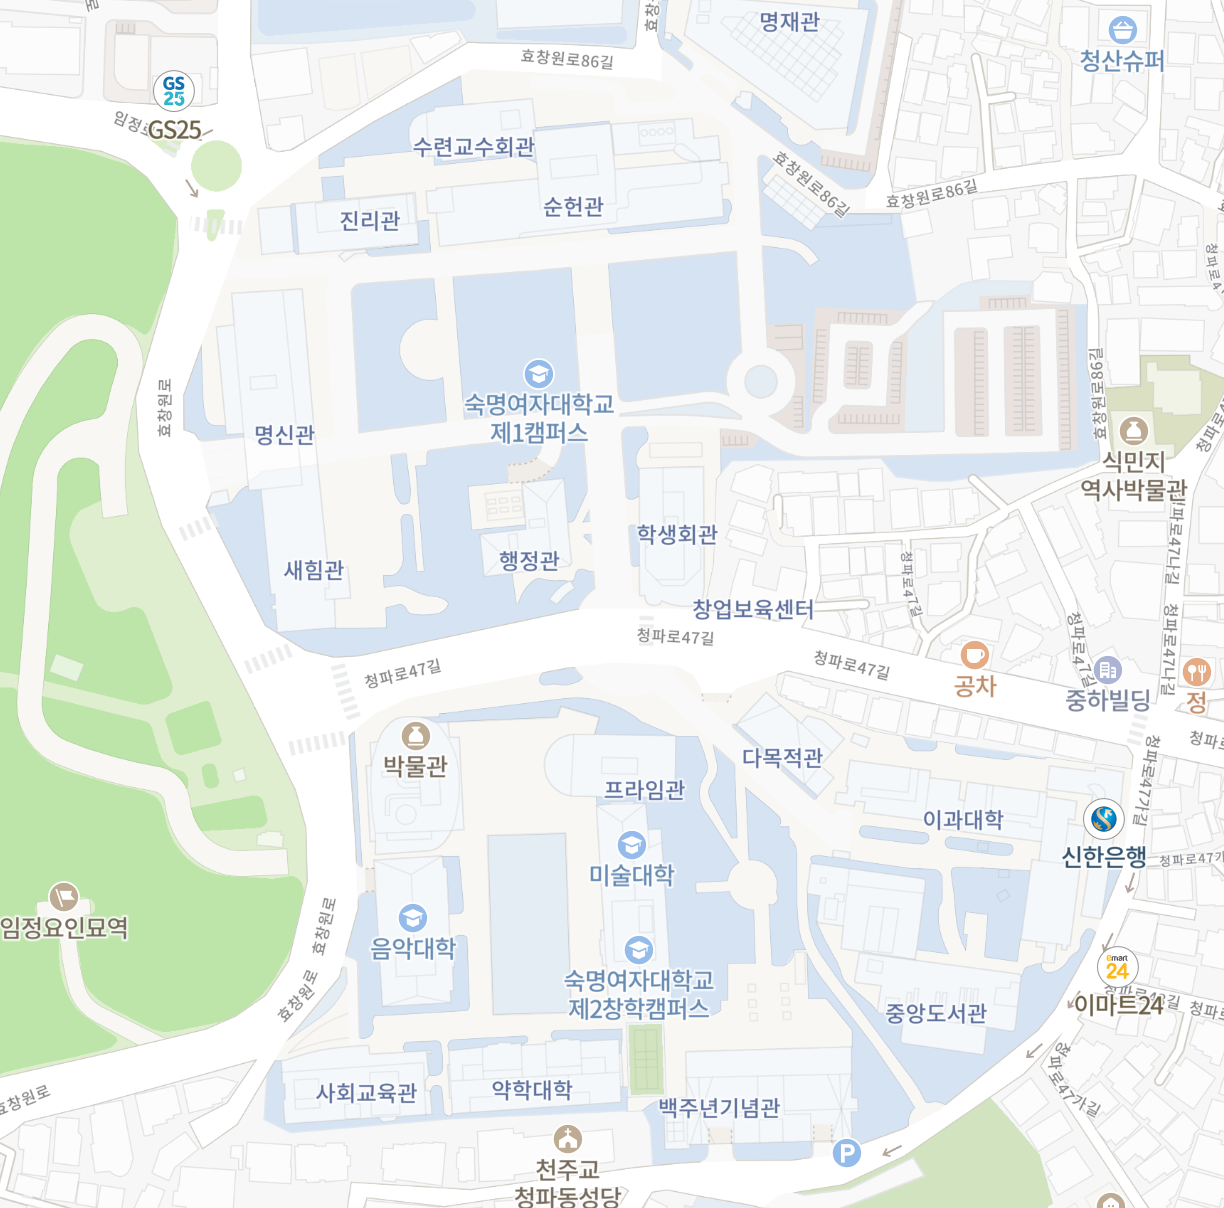
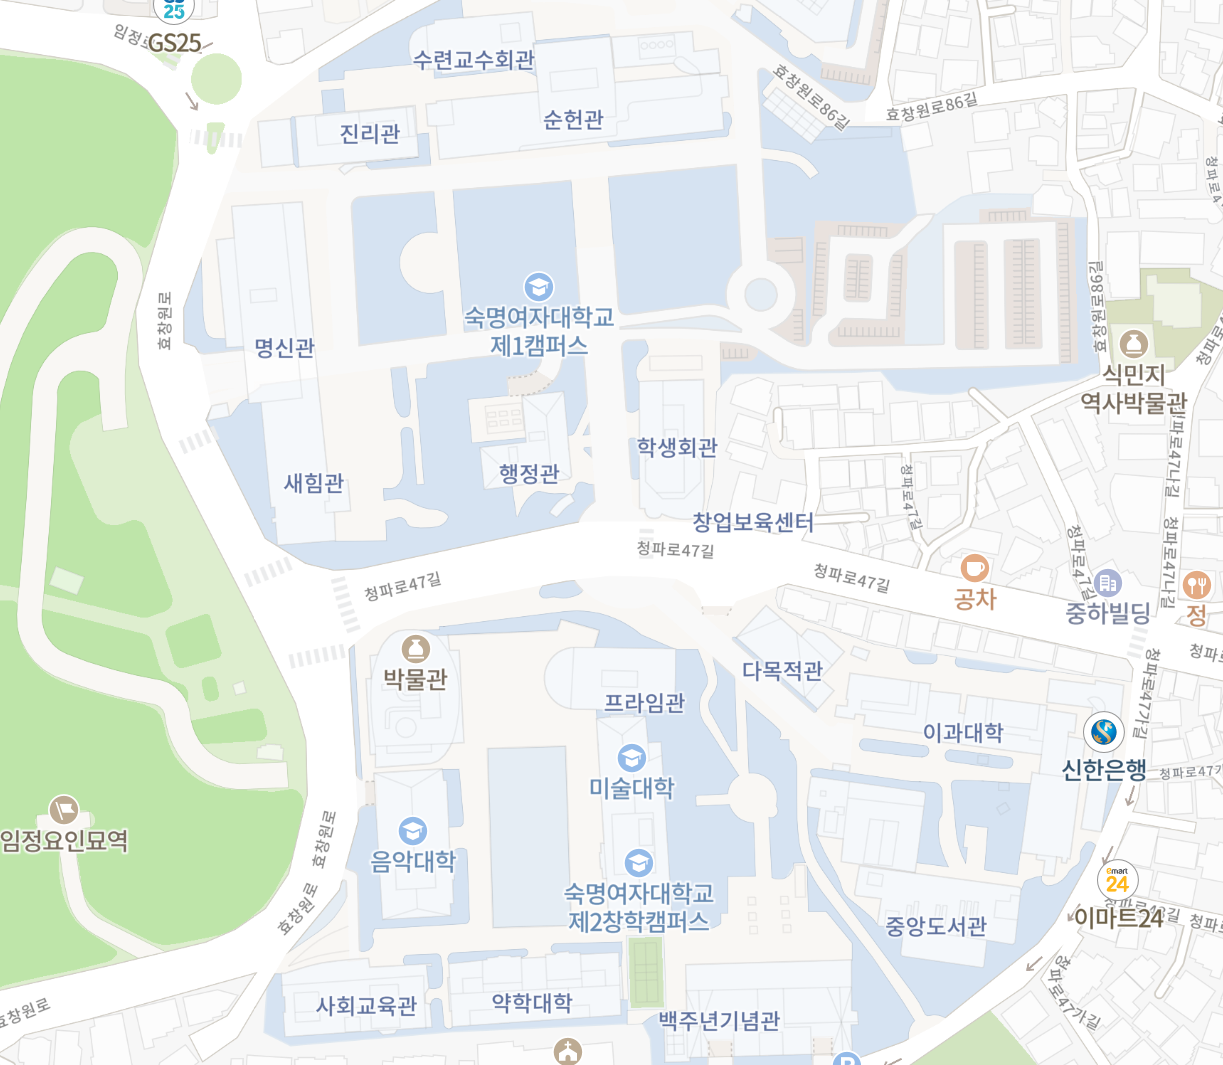
fix: 댓글 폼

diff --git a/smsh22/src/page/Detail.js b/smsh22/src/page/Detail.js
@@ -95,7 +95,7 @@ const Detail = ({ userObj }) => {
 
   return (
     <Container>
-      <Img src="./image/logo.png"
+      <Img src="./image/logo2.png"
         onClick={() => {
           nav.push("/");
         }}
@@ -132,24 +132,28 @@ const Detail = ({ userObj }) => {
       ) : (
         <LeftDiv>
           <Left>
-            대형 : {ridae.l}개 / 업데이트 날짜 : {ridae.stringDate}
-            <br />
-            <br />
-            중형 : {ridae.m}개 / 업데이트 날짜 : {ridae.stringDate}
+            대형 : {ridae.l}개 / 중형 : {ridae.m}개
+            <br/>
+            <br/>
+            업데이트 날짜 : {ridae.stringDate}
           </Left>
           <Btn onClick={toggleEditing}>업데이트</Btn>
         </LeftDiv>
       )}
-      <WriteComment userObj={userObj} name={id} getDate={getDate} />
       <CommentCon>
-        {comments.map((comment) => (
-          <div key={comment.id}>
-            <Div>
-              <Comment commentObj={comment} />
-            </Div>
-            <Hr />
-          </div>
-        ))}
+        <WriteComment userObj={userObj} name={id} getDate={getDate} />
+        {comments.length>0?(
+          comments.map((comment) => (
+            <div key={comment.id}>
+                <Hr/>
+                <Comment commentObj={comment} />
+            </div>
+          ))
+        ):(
+          <Div>
+              아직 댓글이 없습니다.
+          </Div>
+        )}
       </CommentCon>
     </Container>
   );
@@ -159,10 +163,10 @@ const Where = styled.div`
   font-size: 10rem;
   text-align: center;
   font-weight: 700;
-  margin-top: 15rem;
+  margin-top: 10rem;
 `;
 const Img=styled.img`
-  width:20rem;
+  width:22rem;
   position: absolute;
   top: 5rem;
   left: 5rem;
@@ -197,9 +201,10 @@ const Btn = styled.button`
 
 `;
 const CommentCon = styled.div`
-  width: 80%;
-  margin: 10rem auto;
-  padding: 1rem 8rem;
+  width: 100%;
+  margin:auto;
+  padding: 0 0 2rem ;
+  border-radius: 10px;
   background-color: rgba(0, 0, 0, 0.05);
 `;
 
@@ -208,13 +213,15 @@ const Container = styled.div`
 `;
 
 const Div = styled.div`
-  margin: 2rem 5rem;
-  font-size: 4rem;
+  margin: 2rem 4rem 1rem;
+  padding: 1rem 2rem;
+  color: gray;
 `;
 
-const Hr = styled.hr`
-  border: 1px solid rgba(68, 68, 68, 0.2);
-  width: 100%;
+const Hr = styled.div`
+  margin: 0 auto;
+  border-bottom: 1px solid rgba(68, 68, 68, 0.2);
+  width: 90%;
 `;
 
 const Box = styled.div`

diff --git a/smsh22/src/page/Home.js b/smsh22/src/page/Home.js
@@ -41,7 +41,7 @@ const Home = () => {
   return (
     <>
       <Container>
-        <Img onClick={()=>window.location.replace('/')} src="./image/logo.png"/>
+        <Img onClick={()=>window.location.replace('/')} src="./image/logo2.png"/>
         <Box>
           <Map>
             <MapImg src="/image/naver_map1.png" alt="사진 출처: NAVER"></MapImg>
@@ -86,7 +86,7 @@ const Home = () => {
   );
 };
 const Img=styled.img`
-  width:30rem;
+  width:50rem;
   margin: auto;
   margin-top: 2rem;
 `;
@@ -138,23 +138,23 @@ const MapImg = styled.img`
   width: 80rem;
   border-radius: 10px;
   border: 2px solid;
-  margin: 3rem 5rem;
+  margin: 1rem 5rem 3rem;
 `;
 
 
 const pinlist=[
-  {id:'soon',left: 41, top:12},
-  {id:'myung',left: 22, top:26},
-  {id:'jin',left: 27, top:13},
-  {id:'sae',left: 24, top:35},
-  {id:'student',left: 47, top:33},
-  {id:'prime',left: 45, top:50},
-  {id:'flaza',left: 29, top:48},
-  {id:'science',left: 66, top:52},
-  {id:'library',left: 65, top:64},
-  {id:'art',left: 44.5, top:53},
-  {id:'music',left: 30, top:58},
-  {id:'medi',left: 38, top:69},
+  {id:'soon',left: 41, top:6},
+  {id:'myung',left: 22, top:21},
+  {id:'jin',left: 27, top:7},
+  {id:'sae',left: 24, top:30},
+  {id:'student',left: 47, top:27},
+  {id:'prime',left: 45, top:44},
+  {id:'flaza',left: 29, top:42},
+  {id:'science',left: 66, top:46},
+  {id:'library',left: 65, top:59},
+  {id:'art',left: 44.5, top:48},
+  {id:'music',left: 30, top:53},
+  {id:'medi',left: 38, top:64},
 
 ];
 

diff --git a/smsh22/src/components/WriteComment.js b/smsh22/src/components/WriteComment.js
@@ -158,7 +158,7 @@ const WriteComment = ({ userObj, getDate, name }) => {
 const Box = styled.div`
   position: relative;
   background-color: whitesmoke;
-  margin: 10rem 1rem;
+  margin: 10rem 0 0;
   border-radius: 10px;
 `;
 const Row = styled.div`
@@ -169,7 +169,7 @@ const Row = styled.div`
 const Sub = styled.div`
   background-color: whitesmoke;
   margin: 1rem;
-  width: 10rem;
+  width: 11rem;
   font-size: 4rem;
 `;
 const Content = styled.input`
@@ -211,7 +211,7 @@ const ContentRepl = styled.textarea`
 const Repl = styled.div`
   background-color: whitesmoke;
   padding: 3rem;
-  margin: 10rem auto;
+  margin: 10rem auto 0;
   border-radius: 10px;
   text-align: center;
   font-size: 5rem;

diff --git a/smsh22/src/page/Auth.js b/smsh22/src/page/Auth.js
@@ -49,9 +49,9 @@ const Auth = ({userObj}) => {
   };
   return (
     <Container>
-      <Img src="./image/logo.png"/>
+      <Img src="./image/logo2.png"/>
       <Box>
-        로그인은 숙명 구글메일을 통해서 가능합니다.
+        로그인은 구글메일을 통해서 가능합니다.
         원활한 로그인을 위해 <B>인터넷 앱</B>을 이용해주시기 바랍니다.
       </Box>
       <Btn onClick={onSocialClick}>로그인하기</Btn>

diff --git a/smsh22/src/components/Search.js b/smsh22/src/components/Search.js
@@ -11,12 +11,12 @@ const EachPin = styled.div`
     cursor: pointer;
   }
   :focus svg {
-    color: #e795c4;
+    color: #00A1FF;
     opacity: 1;
   }
 
   :hover svg {
-    color: #e795c4;
+    color: #00A1FF;
     opacity: 1;
   }
 `;

diff --git a/smsh22/src/components/Comment.js b/smsh22/src/components/Comment.js
@@ -9,6 +9,8 @@ const Comment = ({ commentObj }) => {
   );
 };
 const Div = styled.div`
-  margin: 3rem 0;
+  margin: 1rem 4rem;
+  padding: 1rem 2rem;
+  font-size: 4rem;
 `;
 export default Comment;

diff --git a/smsh22/src/components/App.js b/smsh22/src/components/App.js
@@ -79,7 +79,7 @@ function App() {
         </>
       ) : (
         <Div>
-        <Img src="./image/logo.png"/>
+        <Img src="./image/logo2.png"/>
         </Div>
       )}
     </>
